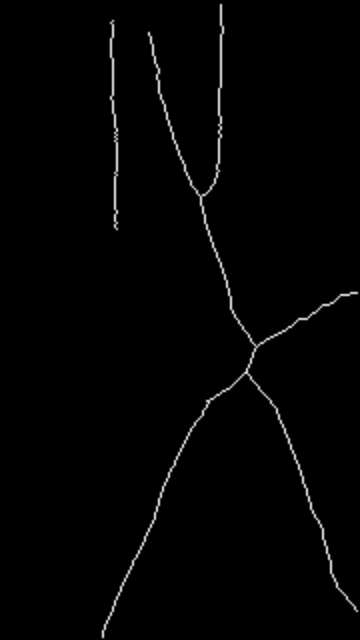
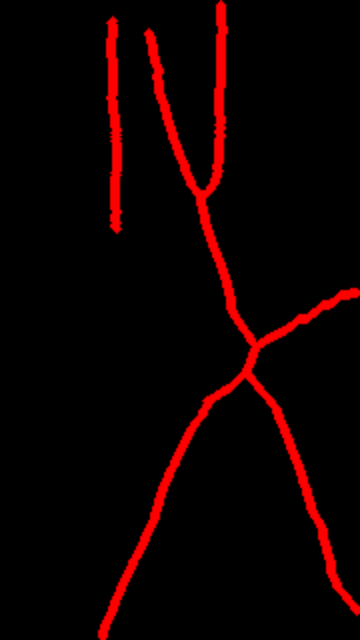
Refactor result drawing processes

Changed region(s): [[0.275, 0.0, 1.0, 1.0], [0.275, 0.0, 0.3667, 0.375]]

diff --git a/example/utils.py b/example/utils.py
@@ -1,95 +1,145 @@
 import cv2
 import numpy as np
 from pys2g import LinearCluster
-from typing import List
+from s2g import Skeleton2GraphHelper
+from typing import List, Optional
 
 
-def draw_graph(image, points, edges, label=None, circle_diameter=2, edge_bold=1, draw_cluster_info=False):
-    assert (len(image.shape) == 3) and (image.shape[-1] == 3)
-    draw_frame = image.copy()
-    if (label is None) or (~draw_cluster_info):
-        for edge in edges:
-            p_from = points[edge[0]]
-            p_to = points[edge[1]]
-            cv2.line(draw_frame, (p_from[0], p_from[1]), (p_to[0], p_to[1]), (255, 0, 0), edge_bold)
-        for point in points:
-            cv2.circle(draw_frame, (point[0], point[1]), circle_diameter, (0, 0, 255), -1)
-    else:
-        label_img_temp = np.zeros((draw_frame.shape[0], draw_frame.shape[1]), dtype=np.uint8)
-        for i, point in enumerate(points):
-            cv2.circle(label_img_temp, (point[0], point[1]), circle_diameter, (label[i]), -1)
-        for i, edge in enumerate(edges):
-            p_from = points[edge[0]]
-            p_to = points[edge[1]]
-            cv2.line(label_img_temp, (p_from[0], p_from[1]), (p_to[0], p_to[1]), (label[edge[0]]), edge_bold)
-        label_img_normalized = (label_img_temp - label_img_temp.min()) / (label_img_temp.max() - label_img_temp.min())
-        label_img_colorized = cv2.applyColorMap((255.0 * label_img_normalized).astype(np.uint8), cv2.COLORMAP_HSV)
-        label_img_colorized[np.where(label_img_temp == 0)[0], np.where(label_img_temp == 0)[1], :] = 0
-        draw_frame[np.where(label_img_colorized > 0)] = label_img_colorized[np.where(label_img_colorized > 0)]
+class SkeletonGraphPainter(object):
+    def __init__(self, point_diameter: int = 2, edge_thickness: int = 2):
+        self._point_diameter: int = point_diameter
+        self._edge_thickness: int = edge_thickness
+        self._image_to_draw: Optional[np.ndarray] = None
+        self._s2g: Optional[Skeleton2GraphHelper] = None
+        self._image_width = 0
+        self._image_height = 0
 
-    return draw_frame
+    def __call__(self, image: np.ndarray, s2g: Skeleton2GraphHelper, draw_simplified=False) -> np.ndarray:
+        self.set_image(image)
+        self.set_converter(s2g, draw_simplified)
+        self.draw_edges()
+        self.draw_nodes()
+        return self.image
+
+    def set_image(self, image: np.ndarray):
+        if len(image.shape) < 3:
+            self._image_to_draw = cv2.cvtColor(image, cv2.COLOR_GRAY2BGR)
+        else:
+            self._image_to_draw = image
+
+    def set_converter(self, s2g: Skeleton2GraphHelper, draw_simplified=False):
+        self._s2g = s2g
+        if not draw_simplified:
+            self._nodes, self._edges = s2g.initial_graph_elements
+        else:
+            self._nodes, self._edges = s2g.simplified_graph_elements
+
+    def draw_nodes(self):
+        for point in self._nodes:
+            cv2.circle(self._image_to_draw, (point[0], point[1]), self._point_diameter, (0, 0, 255), -1)
+
+    def draw_edges(self):
+        for edge in self._edges:
+            p_from = self._nodes[edge[0]]
+            p_to = self._nodes[edge[1]]
+            cv2.line(self._image_to_draw, (p_from[0], p_from[1]), (p_to[0], p_to[1]), (255, 0, 0), self._edge_thickness)
+
+    @property
+    def image(self):
+        return self._image_to_draw
 
 
-def draw_line_segments(image, line_segments: List[LinearCluster], circle_diameter=2, edge_bold=1, with_end_point=False, with_fitted_line=False):
-    n_segments = len(line_segments)
-    draw_frame = image.copy()
-    for label_m1, line_segment in enumerate(line_segments):
+class LinearClusterPainter(object):
+    def __init__(self, point_diameter: int = 2, edge_thickness: int = 2):
+        self._point_diameter: int = point_diameter
+        self._edge_thickness: int = edge_thickness
+        self._image_to_draw: Optional[np.ndarray] = None
+        self._s2g: Optional[Skeleton2GraphHelper] = None
+        self._linear_clusters: Optional[List[LinearCluster]] = None
+        self._image_width = 0
+        self._image_height = 0
+
+    def __call__(
+        self,
+        image: np.ndarray,
+        linear_clusters: List[LinearCluster],
+        s2g: Skeleton2GraphHelper,
+        draw_fitted_line: bool = False,
+        draw_mutual_cluster_connections: bool = False,
+    ) -> np.ndarray:
+        self.set_image(image)
+        self.set_clusters(linear_clusters)
+        self.set_converter(s2g)
+        self.draw_categorized_edges()
+        if draw_mutual_cluster_connections:
+            self.draw_cluster_connection_bridge()
+        self.draw_end_points()
+        if draw_fitted_line:
+            self.draw_line_models()
+        return self.image
+
+    def set_image(self, image: np.ndarray):
+        if len(image.shape) < 3:
+            self._image_to_draw = cv2.cvtColor(image, cv2.COLOR_GRAY2BGR)
+        else:
+            self._image_to_draw = image
+
+    def set_converter(self, s2g: Skeleton2GraphHelper):
+        self._s2g = s2g
+        self._nodes, self._edges = s2g.simplified_graph_elements
+
+    def set_clusters(self, linear_clusters: List[LinearCluster]):
+        self._linear_clusters = linear_clusters
+
+    def draw_end_points(self):
+        for linear_cluster in self._linear_clusters:
+            cluster_points = linear_cluster.points()
+            end_points = [cluster_points[end_point_index] for end_point_index in linear_cluster.indices_end_points()]
+            for point in end_points:
+                cv2.circle(self._image_to_draw, (point[0], point[1]), int(self._point_diameter * 1.5), (0, 0, 255), -1)
+
+    def draw_categorized_edges(self):
         """
         Draw line and points
         """
-        points = line_segment.points()
-        edges = line_segment.edges()
-        label = label_m1 + 1
-        label_img_temp = np.zeros((draw_frame.shape[0], draw_frame.shape[1]), dtype=np.uint8)
-        for i, point in enumerate(points):
-            cv2.circle(label_img_temp, (point[0], point[1]), circle_diameter, label, -1)
-        for i, edge in enumerate(edges):
-            p_from = points[edge[0]]
-            p_to = points[edge[1]]
-            cv2.line(label_img_temp, (p_from[0], p_from[1]), (p_to[0], p_to[1]), label, edge_bold)
-        label_img_normalized = label_img_temp / n_segments
-        label_img_colorized = cv2.applyColorMap((255.0 * label_img_normalized).astype(np.uint8), cv2.COLORMAP_HSV)
-        label_img_colorized[np.where(label_img_temp == 0)[0], np.where(label_img_temp == 0)[1], :] = 0
-        draw_frame[np.where(label_img_colorized > 0)] = label_img_colorized[np.where(label_img_colorized > 0)]
+        for label_m1, line_segment in enumerate(self._linear_clusters):
+            # convert {0,255}-binary image to labelled image
+            label_var = label_m1 + 1
+            label_img_temp = (line_segment.binary_mask(self._edge_thickness)).astype(np.float) / 255 * label_var
+            label_img_normalized = label_img_temp / self.n_clusters
+            label_img_colorized = cv2.applyColorMap((255.0 * label_img_normalized).astype(np.uint8), cv2.COLORMAP_HSV)
+            label_img_colorized[np.where(label_img_temp == 0)[0], np.where(label_img_temp == 0)[1], :] = 0
+            self._image_to_draw[np.where(label_img_colorized > 0)] = label_img_colorized[np.where(label_img_colorized > 0)]
 
-        """
-        Draw end points
-        """
-        if with_end_point:
-            end_points = [points[end_point_index] for end_point_index in line_segment.indices_end_points()]
-            for point in end_points:
-                cv2.circle(draw_frame, (point[0], point[1]), int(circle_diameter * 1.5), (0, 0, 255), -1)
-
-        if with_fitted_line:
-            nx, ny, nconst = line_segment.line()
-            points_ary = np.asarray(points)
-            dist_mat = np.sqrt(np.sum((points_ary[np.newaxis, :, :] - points_ary[:, np.newaxis, :]) ** 2, axis=-1))
-            point_mean = points_ary.mean(0)
-            half_length_segment = np.max(dist_mat) / 2
-            line_direction = np.asarray([ny, -nx])
+    def draw_line_models(self):
+        for linear_cluster in self._linear_clusters:
+            cluster_points = np.array(linear_cluster.points())
+            line_direction = np.array(linear_cluster.direction())
+            point_highest_y = cluster_points[linear_cluster.point_index_lowest_y()]
+            point_lowest_y = cluster_points[linear_cluster.point_index_highest_y()]
+            point_mean = (point_highest_y + point_lowest_y) / 2
+            half_length_segment = linear_cluster.length() / 2
             p1 = point_mean - line_direction * half_length_segment
             p2 = point_mean + line_direction * half_length_segment
-            cv2.line(draw_frame, (int(p1[0]), int(p1[1])), (int(p2[0]), int(p2[1])), (0, 0, 0), 2)
-            cv2.line(draw_frame, (int(p1[0]), int(p1[1])), (int(p2[0]), int(p2[1])), (0, 255, 0), 1)
+            cv2.line(self._image_to_draw, (int(p1[0]), int(p1[1])), (int(p2[0]), int(p2[1])), (0, 0, 0), 2)
+            cv2.line(self._image_to_draw, (int(p1[0]), int(p1[1])), (int(p2[0]), int(p2[1])), (0, 255, 0), 1)
 
-    return draw_frame
+    def draw_cluster_connection_bridge(self):
+        mutual_cluster_index_pairs, point_index_pairs_mutual_clusters = self._s2g.cluster_connection_information
+        for cluster_index_pair, point_index_pair in zip(mutual_cluster_index_pairs, point_index_pairs_mutual_clusters):
+            cluster_a = self._linear_clusters[cluster_index_pair[0]]
+            cluster_b = self._linear_clusters[cluster_index_pair[1]]
+            p_a = np.asarray(cluster_a.points())[point_index_pair[0]]
+            p_b = np.asarray(cluster_b.points())[point_index_pair[1]]
+            cv2.line(self._image_to_draw, (p_a[0], p_a[1]), (p_b[0], p_b[1]), (0, 192, 200), 2)
 
+    @property
+    def image(self):
+        return self._image_to_draw
 
-def draw_mutual_cluster_connection(
-    image_to_show, line_segments: List[LinearCluster], mutual_cluster_index_pairs: List[int], point_index_pairs_mutual_clusters: List[int]
-):
-    n_mutual_cluster_edge = 0
-    for cluster_index_pair, point_index_pair in zip(mutual_cluster_index_pairs, point_index_pairs_mutual_clusters):
-        cluster_a = line_segments[cluster_index_pair[0]]
-        cluster_b = line_segments[cluster_index_pair[1]]
-
-        p_a = np.asarray(cluster_a.points())[point_index_pair[0]]
-        p_b = np.asarray(cluster_b.points())[point_index_pair[1]]
-        # print(f"{p_a}, {p_b}")
-        cv2.line(image_to_show, (p_a[0], p_a[1]), (p_b[0], p_b[1]), (0, 192, 200), 2)
-        n_mutual_cluster_edge += 1
-    print(f"n_mutual_cluster_edge: {int(n_mutual_cluster_edge)}")
-    return image_to_show
+    @property
+    def n_clusters(self):
+        return len(self._linear_clusters)
 
 
 def show_image(image, title="image", scale=1.0):

diff --git a/example/example.py b/example/example.py
@@ -1,9 +1,11 @@
+from os import write
 import cv2
 import numpy as np
 from pathlib import Path
 from s2g import Skeleton2GraphHelper
-from utils import draw_mutual_cluster_connection, draw_line_segments, draw_graph, show_image, write_image
-#from skimage.morphology import thin, skeletonize
+from utils import SkeletonGraphPainter, LinearClusterPainter, show_image, write_image
+
+# from skimage.morphology import thin, skeletonize
 
 SCRIPT_DIR = str(Path().parent)
 
@@ -14,8 +16,8 @@ Skeleton to Graph convertion
 scale = 2.0
 skeleton_image = cv2.imread(f"{SCRIPT_DIR}/example/data/skeleton.png", cv2.IMREAD_ANYDEPTH)
 image_height, image_width = skeleton_image.shape
-#skeleton_image = cv2.resize(skeleton_image, None, fx = 3, fy=3, interpolation=cv2.INTER_NEAREST)
-#skeleton_image= thin(skeleton_image // 255).astype(np.uint8) * 255
+# skeleton_image = cv2.resize(skeleton_image, None, fx = 3, fy=3, interpolation=cv2.INTER_NEAREST)
+# skeleton_image= thin(skeleton_image // 255).astype(np.uint8) * 255
 
 s2g = Skeleton2GraphHelper(simplification_threshold=15.0, directional_threshold=30.0)
 s2g.set_frame(skeleton_image)
@@ -37,33 +39,33 @@ Output results
 image_to_show = cv2.cvtColor(skeleton_image, cv2.COLOR_GRAY2BGR)
 
 ### Output raw skeleton
-# show_image(image_to_show, scale=2)
-#write_image(skeleton_image, f"{SCRIPT_DIR}/results/input.png", scale=scale)
+graph_painter = SkeletonGraphPainter(point_diameter=2, edge_thickness=2)
+
+# show_image(graph_painter(skeleton_image, s2g, draw_simplified=False), scale=2)
+write_image(graph_painter(skeleton_image, s2g, draw_simplified=False), f"{SCRIPT_DIR}/results/input.png", scale=scale)
 
 ### Output graph extraction result
-#show_image(draw_graph(image_to_show, node_init, edge_init), scale=scale)
-#show_image(draw_graph(image_to_show, node_simplified, edge_simplified), scale=scale)
-"""
-write_image(
-    draw_graph(image_to_show, node_simplified, edge_simplified, node_labels_simplified, edge_bold=2),
-    f"{SCRIPT_DIR}/results/graph.png",
-    scale=2,
-)
-"""
+# show_image(graph_painter(skeleton_image, s2g, draw_simplified=True), scale=scale)
+write_image(graph_painter(skeleton_image, s2g, draw_simplified=True), f"{SCRIPT_DIR}/results/graph.png", scale=scale)
 
 ### Output post-processing result
-image_to_show = draw_mutual_cluster_connection(image_to_show, linear_clusters, mutual_cluster_index_pairs, point_index_pairs_mutual_clusters)
-image_to_show = draw_line_segments(image_to_show, linear_clusters, circle_diameter=3, edge_bold=3, with_end_point=True, with_fitted_line=True)
-show_image(image_to_show, scale=scale)
-# write_image(image_to_show, f"{SCRIPT_DIR}/results/parsed.png", scale=scale)
+cluster_painter = LinearClusterPainter(point_diameter=2, edge_thickness=2)
+# show_image(cluster_painter(skeleton_image, linear_clusters, s2g, draw_fitted_line=True, draw_mutual_cluster_connections=True), scale=scale)
+write_image(
+    cluster_painter(skeleton_image, linear_clusters, s2g, draw_fitted_line=True, draw_mutual_cluster_connections=True),
+    f"{SCRIPT_DIR}/results/parsed.png",
+    scale=scale,
+)
 
 ### rescale check
-"""
-image_to_show = cv2.resize(image_to_show, None, fx=scale, fy=scale)
+image_to_show = cv2.resize(cv2.cvtColor(skeleton_image, cv2.COLOR_GRAY2BGR), None, fx=scale, fy=scale)
 image_height_scale = int(image_height * scale)
 image_width_scale = int(image_width * scale)
-[linear_cluster.rescale(image_width_scale, image_height_scale) for linear_cluster in  linear_clusters]
-image_to_show = draw_mutual_cluster_connection(image_to_show, linear_clusters, mutual_cluster_index_pairs, point_index_pairs_mutual_clusters)
-image_to_show = draw_line_segments(image_to_show, linear_clusters, circle_diameter=3, edge_bold=3, with_end_point=True, with_fitted_line=True)
-show_image(image_to_show)
-"""
+[linear_cluster.rescale(image_width_scale, image_height_scale) for linear_cluster in linear_clusters]
+cluster_painter = LinearClusterPainter(point_diameter=4, edge_thickness=3)
+# show_image(cluster_painter(image_to_show, linear_clusters, s2g, draw_fitted_line=True, draw_mutual_cluster_connections=True), scale=1.0)
+write_image(
+    cluster_painter(image_to_show, linear_clusters, s2g, draw_fitted_line=True, draw_mutual_cluster_connections=True),
+    f"{SCRIPT_DIR}/results/parsed.png",
+    scale=1.0,
+)

diff --git a/include/linear_cluster.h b/include/linear_cluster.h
@@ -9,6 +9,8 @@
 #include <eigen3/Eigen/SVD>
 #endif
 
+#include <opencv2/opencv.hpp>
+
 #include "graph.h"
 #include "graph_helper.h"
 #include "pixel.h"
@@ -235,6 +237,7 @@ class LinearCluster {
             m_line_model_.set(p0x, p0y, p1x, p1y);
         } else {
             float n_x, n_y, n_constant;
+
             fitLineBySVD(n_x, n_y, n_constant, graph_helper_ptr);
             m_line_model_.set(n_x, n_y, n_constant);
         }
@@ -308,6 +311,25 @@ class LinearCluster {
         m_point_list_ = rescale_point_list(m_point_list_, scale);
         m_projected_point_list_ = rescale_point_list(m_projected_point_list_, scale);
         m_line_model_.rescale(scale);
+    }
+
+    cv::Mat getBinaryMask(const int32_t &thickness = 1) {
+        CV_Assert(m_input_image_width_ > 0 && m_input_image_height_ > 0);
+        CV_Assert(thickness >= 1);
+        cv::Mat image_graph_to_binary = cv::Mat::zeros(cv::Size(m_input_image_width_, m_input_image_height_), CV_8UC1);
+
+        /// point[0]: x-axis, point[1]: y-axis
+        for (std::vector<int32_t> point : m_point_list_) {
+            image_graph_to_binary.at<uchar>(point[1], point[0]) = 255;
+        }
+        for (std::vector<int32_t> edge : m_edge_list_) {
+            std::vector<int32_t> point_start = m_point_list_[edge[0]];
+            std::vector<int32_t> point_end = m_point_list_[edge[1]];
+            cv::Point point_cv_start{point_start[0], point_start[1]};
+            cv::Point point_cv_end{point_end[0], point_end[1]};
+            cv::line(image_graph_to_binary, point_cv_start, point_cv_end, cv::Scalar(255), thickness, cv::LINE_4);
+        }
+        return image_graph_to_binary;
     }
 
    private:
@@ -428,16 +450,19 @@ class LinearCluster {
 
     float m_line_length_;
     int32_t m_input_image_width_, m_input_image_height_;
+
     std::unordered_map<Hash, int32_t> m_map_hash2index_;
     std::vector<std::vector<int32_t>> m_point_list_;
     std::vector<std::vector<int32_t>> m_projected_point_list_;
+    int32_t m_index_argmin_p_y_, m_index_argmax_p_y_;
+
     std::vector<Hash> m_node_hash_list_;
     std::vector<std::vector<int32_t>> m_edge_list_;
+
     std::vector<int32_t> m_end_point_indices_;
     std::vector<int32_t> m_junction_point_indices_;
-    LineCoeff m_line_model_;
 
-    int32_t m_index_argmin_p_y_, m_index_argmax_p_y_;  // mainly for debug
+    LineCoeff m_line_model_;
 };
 
 /*

diff --git a/src/bindings.cpp b/src/bindings.cpp
@@ -37,7 +37,8 @@ PYBIND11_MODULE(pys2g, m)
         .def("indices_end_points", &LinearCluster::getEndPointIndices)
         .def("set_image_size", &LinearCluster::setInputImageSize)
         .def("image_size", &LinearCluster::getInputImageSize)
-        .def("rescale", &LinearCluster::rescale);
+        .def("rescale", &LinearCluster::rescale)
+        .def("binary_mask", &LinearCluster::getBinaryMask);
     py::class_<Skeleton2Graph>(m, "Skeleton2Graph")
         .def(
             py::init<const float &, const float &>(),
